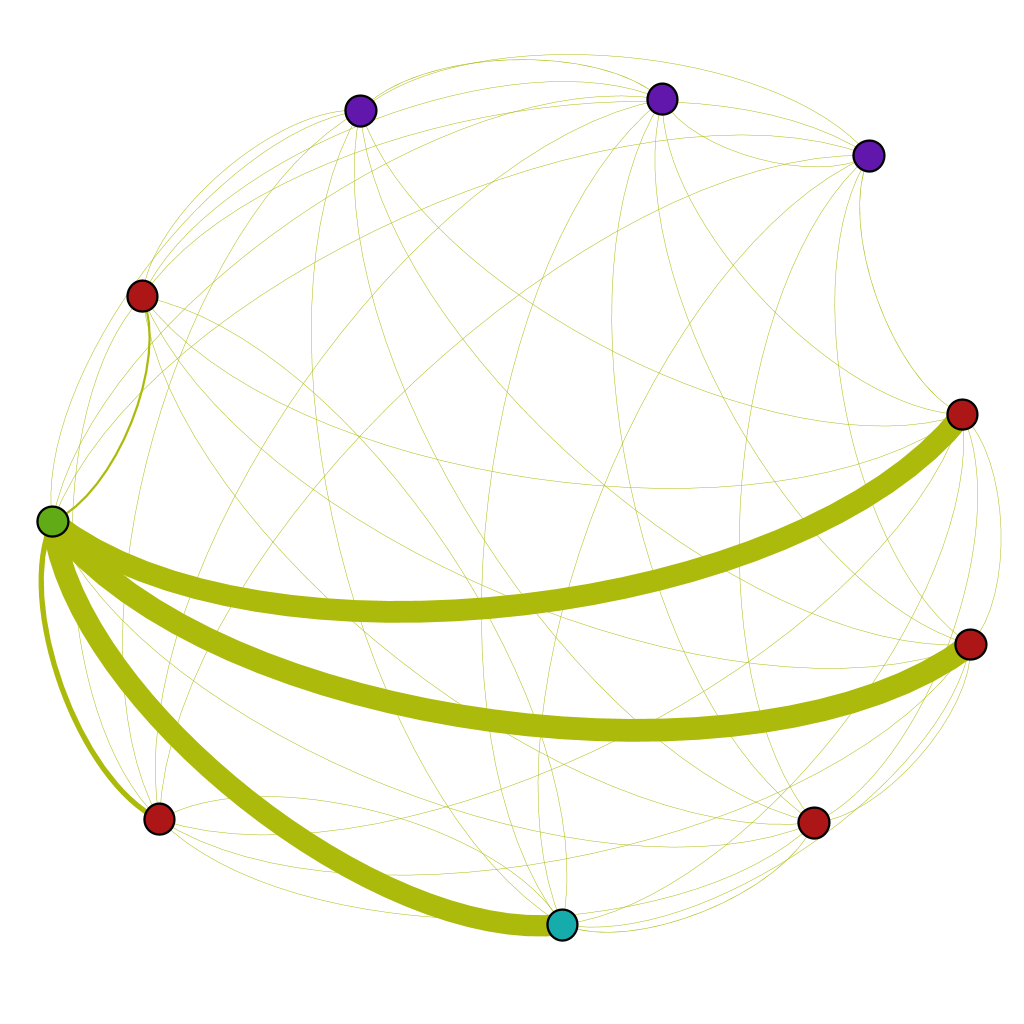
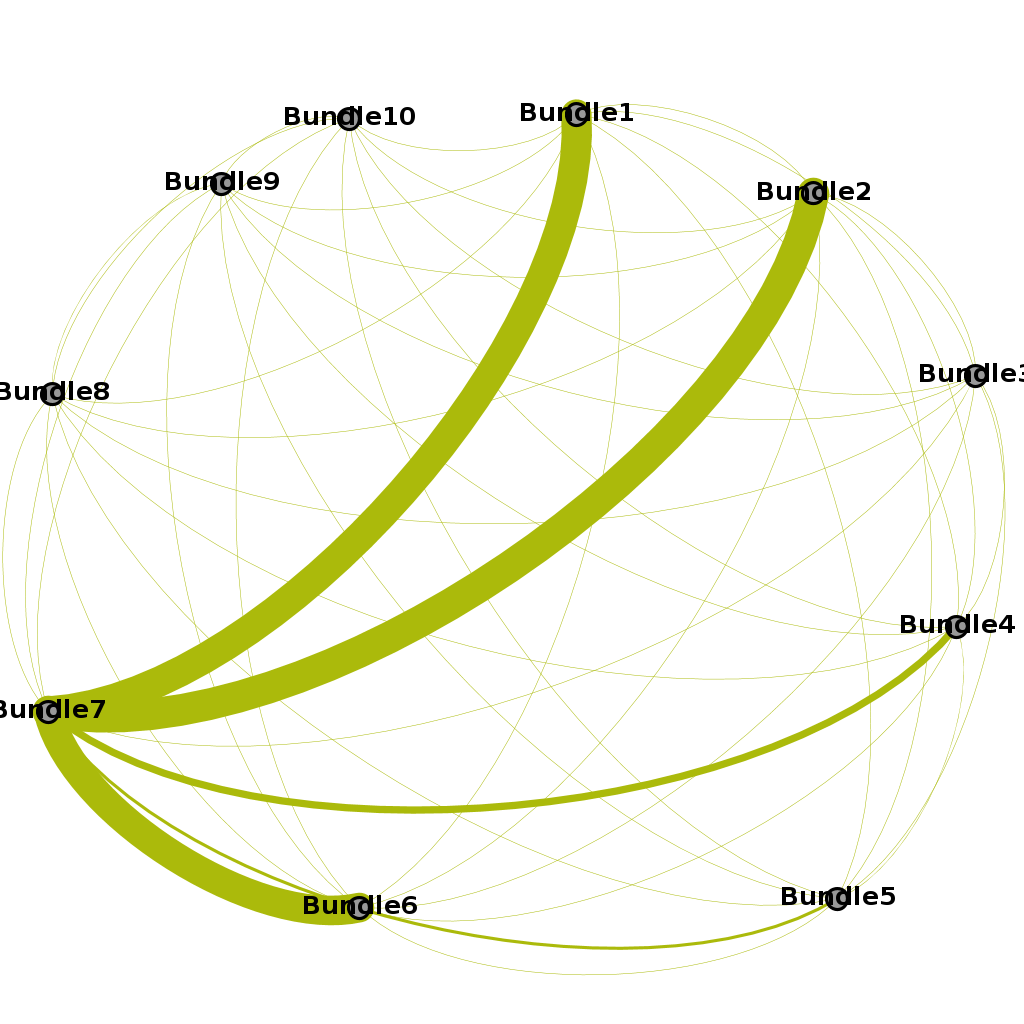
actualizacion del informe

diff --git a/informe/desarrollo.tex b/informe/desarrollo.tex
@@ -1,6 +1,7 @@
-El algoritmo que se utilizó para obtener las soluciones es \tenxttt{Produce-and-Choose}, cuenta con dos fases.
-En la primer fase se generar cierta cantidad de bundles, e la fase siguiente se seleccionan los bundles que
-son parte de la solución.\\
+El algoritmo que se utilizó para obtener las soluciones es \texttt{Produce-and-Choose}, cuenta con 
+dos fases.
+En la primer fase se generan cierta cantidad de bundles, e la fase siguiente se seleccionan los 
+bundles que serán parte de la solución.\\
 A continuación se explican los algoritmos utilizados para cada fase.
 \section{Generación de bundles}
 El problema de la generación de bundles es NP-hard (agregar ref) por lo que se utilizaron heurísticas para aproximarse a una solución
@@ -11,13 +12,28 @@ El parámetro $x$ define la cantidad de bundles a generar. El caso de que $x$ se
 Para la heurística Hierarchical clustering \texttt{HAC} se define la función de distancia. 
 El algoritmo comienza con tantos clusters como cantidad de elementos, cada uno está conformado por un solo ítem y 
 en cada paso se unen los dos clusters mas cercanos y que respeten las restricciones.\\
-Se realizaron soluciones con dos funciones de distancia diferentes. La primer función utilizada d1(u,v) = 1 - s(u, v).
-La función d1 no tiene en cuenta el gamma, para obtener soluciones de bundles más diversos o bundles más cohesivos.
-La función d2(u,v) = 1 - fn obj(u,v) tiene en cuenta el gamma para buscar una mejor solución.
+Se realizaron dos variantes con esta solución, cada una con funciones de distancia diferentes. 
+Como primera implementación, que llamamos \texttt{SingleHAC}, utilizamos la función $d1(u,v) 
+= 1 - s(u, v)$. Ésta función no tiene en cuenta el $\gamma$ para obtener soluciones de bundles más 
+diversos o bundles más cohesivos.\\
+En cambio para la segunda implementación, \texttt{EfficientHAC} redefinimos la distancia como la 
+función $d2(u,v) = 1 - fn\ obj(u,v)$ que tiene en cuenta el $\gamma$ para buscar una mejor 
+solución.\\
+En la figura ilustramos cuál es la diferencia, al momento de elegir el próximo cluster que debe ser 
+fusionado, utilizando las implementaciones \texttt{SingleHAC} y \texttt{EfficientHAC}.
+\begin{figure}[H]
+  \centering
+    \includegraphics[width=0.3\textwidth]{img/cluster1.png}
+  \caption{Selección de bundles usando \texttt{SingleHAC}}
+  \label{res:img-usingSingleHAC}
+\end{figure}
 
-En la figura se ve la diferencia de utilizar d1 y d2
-
-
+\begin{figure}[H]
+  \centering
+    \includegraphics[width=0.3\textwidth]{img/cluster2.png}
+  \caption{Selección de bundles usando \texttt{EfficientHAC}}
+  \label{res:img-usingEfficientHAC}
+\end{figure}
 
 \section{Selección de bundles}
 Se utilizaron tres estrategias de selección de bundles para generar las soluciones finales.
@@ -103,15 +119,18 @@ específico, de esta manera a los clusters que contenían papers con los mismos 
 vector especifico se le dio mayor peso.
 
 \section{Heurística Golosa}
-En todas los algoritmos previos se centraron en primero construir buenos bundles teniendo 
-maximizando solo el valor propio de cada bundle, para luego si seleccionar dependiendo de la 
-estrategia la solución final ahora si maximizando la función objetivo propuesta.\\
+En todas los algoritmos previos se centraron en, primero construir buenos bundles maximizando solo 
+el valor propio de cada bundle, o sea, el valor inter bundle. Una vez generado los suficientes 
+\textquotedblleft buenos\textquotedblright  para luego seleccionar dependiendo de la 
+estrategia elegida la solución final, ahora si, maximizando la función objetivo propuesta 
+originalmente.\\
 Para este heurística golosa propusimos ir construyendo los bundles finales teniendo en cuenta en 
 cada paso la función objetivo, esto es, en cada paso cuando se intenta agregar un nuevo elemento a 
 un bundle se calcula su valor total de la función y se evalúa en que bundle conviene agregarlo. 
 Esto se repite para todos los items, haciendo que cuando tengo que agregar un nuevo ítem a la 
 solución ya calculé para todos los items que no se encuentran en la solución en que bundle conviene 
-agregarlo y cual es el valor de la función en ese caso, quedándome siempre con el mejor valor.
+agregarlo y cual es el valor de la función en ese caso, quedándonos siempre con el mejor valor 
+posible.
 \begin{algorithm}[H]
 \begin{algorithmic}[1]
 \REQUIRE Aca va la entrada del algoritmo.

diff --git a/informe/resultados.tex b/informe/resultados.tex
@@ -12,8 +12,8 @@ depuración obtuvimos 4937 que cumplen los requisitos para la búsqueda de las s
 Se genraron soluciones con las siguientes características:\\
 \Solucion
 {}
-{simple, por tuplas y proporcional}
-{\texttt{HAC} y \texttt{BOBO-x}, con  $x \in$ $(10, 160)$}
+{simple}
+{\texttt{SingleHAC}, \texttt{EfficientHAC} y \texttt{Greedy}}
 {$\in$ $(0,1; 0,3; 0,5; 0,7; 0,9)$}
 {10}
 {5}
@@ -21,36 +21,65 @@ Como primera observación podemos ver la cantidad de bundles que se generan para
 producción:\\
 \begin{table}[h]
   \centering
-  \resizebox{\textwidth}{!} {
-    \begin{tabular}{|lcc|}
+  \resizebox{0.5\textwidth}{!} {
+    \begin{tabular}{|lc|}
     \hline
-    Algoritmo & Bundles Generados & Tiempo de Ejecución (minutos) \\
+    Algoritmo & Bundles Generados \\
     \hline
-    HAC       & $2378$ & $6$ \\
-    BOBO-10   & $100$  & $2$ \\
-    BOBO-160  & $1600$ & $5$ \\
+    SingleHAC & $2378$ \\
+    EfficientHAC & $2378$ \\
+    Greedy & $10$ \\
     \hline
     \end{tabular}
   }
     \caption {Cantidad de bundles generados antes de la selección final}
 \end{table}
 
-En los siguientes gráficos se visualiza los resultados obtenidos para los gammas 0.1 y 0.9. Cada 
+En los siguientes gráficos se visualiza los resultados obtenidos para $\gamma$ 0.1 y 0.9. Cada 
 nodo representa un bundle y los ejes el valor de la similitud entre cada uno de ellos. La línea más 
 gruesa indica un mayor grado de similitud. En cuanto a los vértices al acercarse al azul el valor 
 de la intra es menor y al rojo mayor.
+
 \begin{figure}[H]
   \centering
     \includegraphics[width=0.5\textwidth]{resultados/papers/intra_inter/hac01.png}
-  \caption{Relación entre bundles para $\gamma$ = $0.1$ y algoritmo HAC}
+  \caption{Relación entre bundles para $\gamma$ = $0.1$ y algoritmo SingleHAC}
   \label{res:img-gamma01-hac}
 \end{figure}
 
 \begin{figure}[H]
   \centering
     \includegraphics[width=0.5\textwidth]{resultados/papers/intra_inter/hac09.png}
-  \caption{Relación entre bundles para $\gamma$ = $0.9$ y algoritmo HAC}
+  \caption{Relación entre bundles para $\gamma$ = $0.9$ y algoritmo SingleHAC}
   \label{res:img-gamma09-hac}
+\end{figure}
+
+\begin{figure}[H]
+  \centering
+    \includegraphics[width=0.5\textwidth]{resultados/papers/intra_inter/effhac01.png}
+  \caption{Relación entre bundles para $\gamma$ = $0.1$ y algoritmo EfficientHAC}
+  \label{res:img-gamma01-effhac}
+\end{figure}
+
+\begin{figure}[H]
+  \centering
+    \includegraphics[width=0.5\textwidth]{resultados/papers/intra_inter/effhac09.png}
+  \caption{Relación entre bundles para $\gamma$ = $0.9$ y algoritmo EfficientHAC}
+  \label{res:img-gamma09-effhac}
+\end{figure}
+
+\begin{figure}[H]
+  \centering
+    \includegraphics[width=0.5\textwidth]{resultados/papers/intra_inter/greedy01.png}
+  \caption{Relación entre bundles para $\gamma$ = $0.1$ y algoritmo Greedy}
+  \label{res:img-gamma01-greedy}
+\end{figure}
+
+\begin{figure}[H]
+  \centering
+    \includegraphics[width=0.5\textwidth]{resultados/papers/intra_inter/greedy09.png}
+  \caption{Relación entre bundles para $\gamma$ = $0.9$ y algoritmo Greedy}
+  \label{res:img-gamma09-greedy}
 \end{figure}
 
 \section{Autores}

diff --git a/informe/conclusiones.tex b/informe/conclusiones.tex
@@ -1,3 +1,18 @@
+\section{Comparaciones entre los diferentes algoritmos}
+\subsection{Papers}
+Con los resutlados obtenidos podemos hacer dos tipos de análisis y comparaciones, la primera y más 
+clara es comparar entre los algoritmos \texttt{SingleHAC} y \texttt{EfficientHAC}, en la que 
+observamos que para $\gamma$ bajos obtuvimos los mismos resultados, pero para $\gamma$ altos a 
+partir de $0.7$ obtuvimos soluciones diferentes las cuáles tenían un valor con respecto a la 
+función objetivo prácticamente iguales pero se obtuvieron mejores relaciones interbundles.\\
+La otra comparación que surge es entre \texttt{EfficientHAC} y \texttt{Greedy} en el que se observa 
+que para $\gamma$ las soluciones obtenidas son \textquotedblleft similarmente 
+buenas\textquotedblright , dado que sus valores en términos de función objetivo están cercanos, 
+pero a la vez observamos que la relación interbundles es mejor las soluciones de la implementación 
+\texttt{Greedy}. En cambio para $\gamma$ altos, el valor de la función objetivo en la 
+implementación \texttt{EfficientHAC} fue muy superior pero la relación interbundles en el algoritmo 
+\texttt{Greedy} se ve que fue mejor, logrando soluciones mas interdependientes.
+
 \section{Valores cercanos al óptimo}
 Dada la función que se está intentando maximizar $$\displaystyle\sum_{1 \leq i \leq k} 
 \displaystyle\sum_{u,v \in S_{i}} \gamma s(u,v)\ 
@@ -34,10 +49,10 @@ Para los $\gamma \in (0.1, 0.3, 0.5, 0.7, 0.9)$ los resultados de la función so
     \caption {Valor óptimo de la función para cada $\gamma$}
 \end{table}
 
-En las ejecuciones del algoritmo \textbf{HAC} para artículos en los $\gamma$ más altos los 
+En las ejecuciones del algoritmo \textbf{SingleHAC} para artículos en los $\gamma$ más altos los 
 resultados de los bundles eran los mismos lo cuál se explica porque a medida que $\gamma$ aumenta se 
 acerca cada vez más a la cota superior que establecimos. No sucediendo los mismo con $\gamma$ 
 menores.\\
-En cambio para las ejecuciones también del algoritmo \textbf{HAC} pero para autores en todas las 
-soluciones obtuvimos los mismos bundles y se ve reflejado porque la función objetivo para cada 
+En cambio para las ejecuciones también del algoritmo \textbf{SingleHAC} pero para autores en todas 
+las soluciones obtuvimos los mismos bundles y se ve reflejado porque la función objetivo para cada 
 $\gamma$ es igual a la cota.

diff --git a/src/solver/restrictedHACSolver.cpp b/src/solver/restrictedHACSolver.cpp
@@ -12,7 +12,7 @@
 RestrictedHACSolver::~RestrictedHACSolver() {
 }
 
-SnowFlakeVector* RestrictedHACSolver::produceManySnowflakes(int numToProduce) {
+SnowFlakeVector* RestrictedHACSolver::produceManySnowflakesSingleCluster(int numToProduce) {
     MapIntIntSet *clustering = new MapIntIntSet();
     int totalElements = this->problem_->numNodes();
     matrix<int> *theMatrixC = new matrix<int> (totalElements, totalElements);
@@ -143,7 +143,7 @@ SnowFlakeVector* RestrictedHACSolver::produceManySnowflakes(int numToProduce) {
         solution->push_back(*aFlake);
     }
     //WriterSolution::writeSnowFlakeIds(*solution, "/home/zero/tmp/clusters.txt");
-    WriterSolution::writeInterAndIntraValues(*solution, "/home/zero/tmp/articles/intraintercompleto.txt");
+    //WriterSolution::writeInterAndIntraValues(*solution, "/home/zero/tmp/articles/intraintercompleto.txt");
     DEBUG(DBG_DEBUG,"fin bucle crear solucion");
 
     DEBUG(DBG_DEBUG,"eliminar objetos");
@@ -155,7 +155,7 @@ SnowFlakeVector* RestrictedHACSolver::produceManySnowflakes(int numToProduce) {
     return solution;
 }
 
-SnowFlakeVector* RestrictedHACSolver::produceManySnowflakesSingleCluster(int numToProduce) {
+SnowFlakeVector* RestrictedHACSolver::produceManySnowflakes(int numToProduce) {
     if (this->problem_->numNodes() < numToProduce) {
         throw Exception(__FILE__, __LINE__, "IllegalArgumentException Too few nodes");
     }
